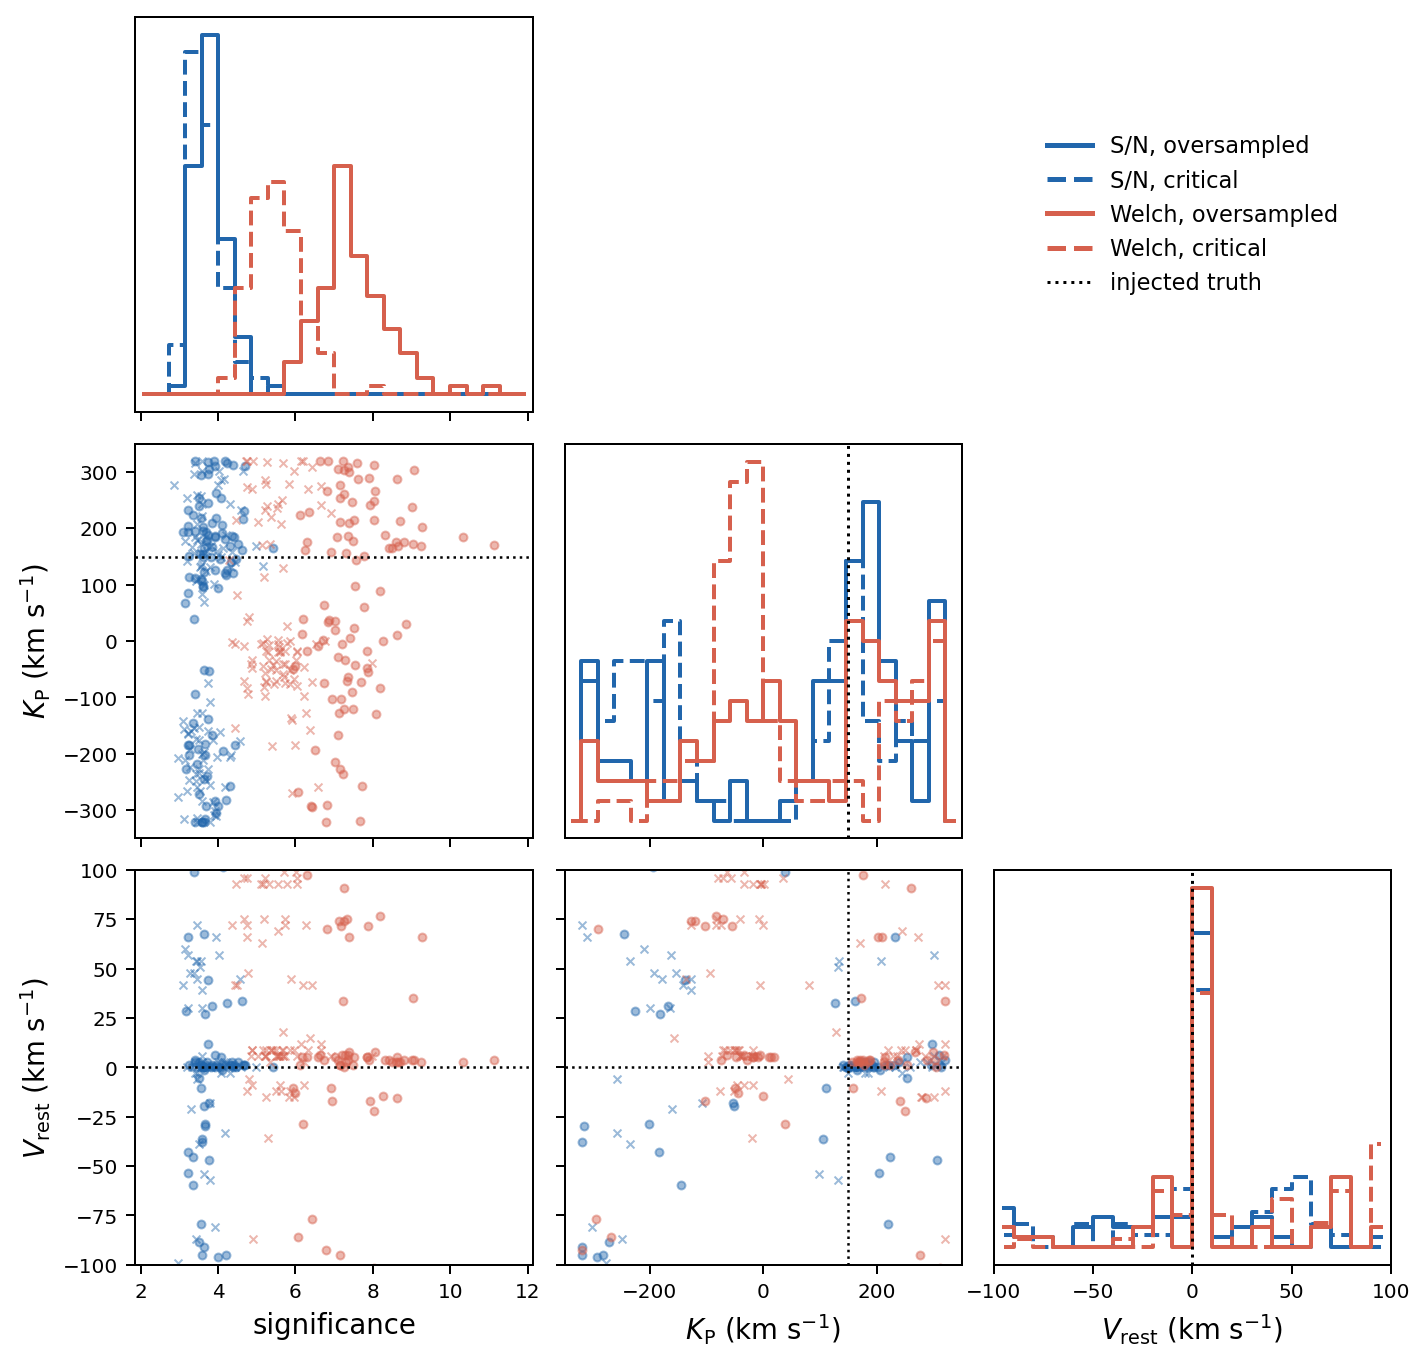
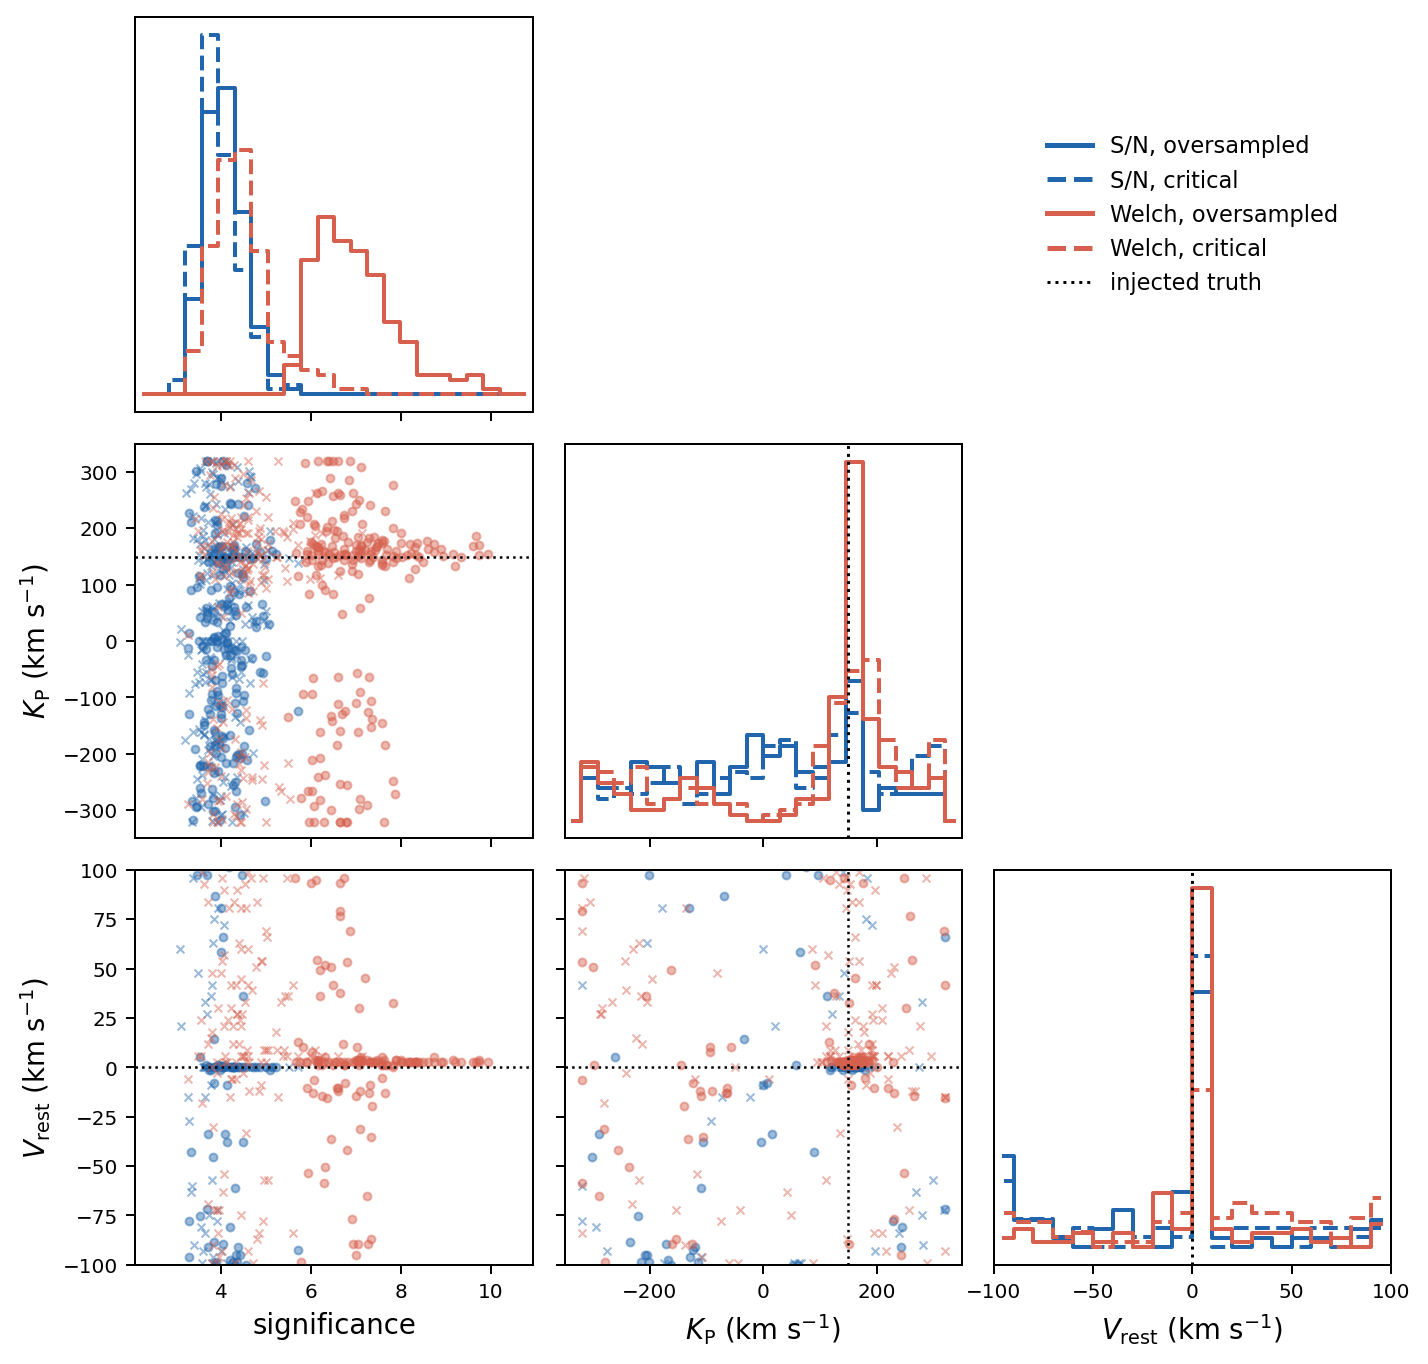
Tutorial 8: 200-realisation significance study and refreshed caption; add verified citation hyperlinks across docs

diff --git a/docs/tutorial.md b/docs/tutorial.md
@@ -164,9 +164,9 @@ The map is constructed by co-adding the cross-correlation function (CCF) over al
 
 The characteristic elongated shape (a vertical streak rather than a point) reflects a partial degeneracy between K<sub>P</sub> and v<sub>rest</sub> over a single transit: a slightly wrong K<sub>P</sub> shifts the peak in v<sub>rest</sub> rather than completely destroying it. This degeneracy can in principle be lifted by combining multiple transits at different orbital phases.
 
-A non-zero v<sub>rest</sub> at the peak indicates that the absorbing gas has a net velocity relative to the planet's Keplerian rest frame. In tidally locked hot Jupiters, a **blueshift** (negative v<sub>rest</sub>) is commonly observed and attributed to day-to-nightside winds: high-altitude gas flows from the hot dayside towards the cooler nightside, and at the terminator this flow has a line-of-sight component pointing towards the observer on both the leading and trailing limbs. For HD 189733 b, multiple studies consistently measure a blueshift of -3.9 to -5.5 km s<sup>-1</sup> (Alonso-Floriano et al. 2019; [Sánchez-López et al. 2019](https://doi.org/10.1051/0004-6361/201936084); Blain et al. 2024).
+A non-zero v<sub>rest</sub> at the peak indicates that the absorbing gas has a net velocity relative to the planet's Keplerian rest frame. In tidally locked hot Jupiters, a **blueshift** (negative v<sub>rest</sub>) is commonly observed and attributed to day-to-nightside winds: high-altitude gas flows from the hot dayside towards the cooler nightside, and at the terminator this flow has a line-of-sight component pointing towards the observer on both the leading and trailing limbs. For HD 189733 b, multiple studies consistently measure a blueshift of -3.9 to -5.5 km s<sup>-1</sup> ([Alonso-Floriano et al. 2019](https://doi.org/10.1051/0004-6361/201834339); [Sánchez-López et al. 2019](https://doi.org/10.1051/0004-6361/201936084); Blain et al. 2024).
 
-A measured v<sub>rest</sub> offset is most commonly interpreted as a day-to-nightside wind, but it is not uniquely diagnostic. Planetary rotation, an offset dayside hotspot, or species-dependent dynamics can produce comparable shifts (Brogi et al. 2023; Smith et al. 2024), as can residual uncertainties in the velocity solution or the wavelength calibration. Such an offset should therefore always be cross-checked against independent indicators before being attributed to winds.
+A measured v<sub>rest</sub> offset is most commonly interpreted as a day-to-nightside wind, but it is not uniquely diagnostic. Planetary rotation, an offset dayside hotspot, or species-dependent dynamics can produce comparable shifts ([Brogi et al. 2023](https://doi.org/10.3847/1538-3881/acaf5c); [Smith et al. 2024](https://doi.org/10.3847/1538-3881/ad8574)), as can residual uncertainties in the velocity solution or the wavelength calibration. Such an offset should therefore always be cross-checked against independent indicators before being attributed to winds.
 :::
 
 The peak S/N and its position depend on the noise seed (`noise.noise_seed`, default `12345`); changing it draws a different noise realisation. Fully-masked orders (deep telluric bands) are skipped and reported in `<run_name>/warnings/fully_masked_orders_<run_name>.txt`.
@@ -193,7 +193,7 @@ See [docs/outputs.md](outputs.md) for a complete guide to every output file and 
 
 > **Approximate run time:** ~61 min on an Apple Mac Studio M2 Ultra (64 GB RAM), running `configs/wasp76b_andes_ubv_limbasym.json` (Blain24 pipeline, asymmetric limbs, all 62 ANDES UBV orders, one night, no retrieval). The petitRADTRANS forward model dominates: it is run for the four limb atmospheres and convolved with the per-limb wind and rotation kernels, so this case is slower than the single-atmosphere Tutorial 1. Times are approximate and machine-dependent; with `timing: true` the run writes a `timing_report_<date>.txt` with the exact per-block breakdown and total.
 
-WASP-76 b is an ultra-hot Jupiter where the extreme day-to-night temperature contrast produces strong chemical asymmetries between the morning and evening limbs. The key observational signature is a neutral iron signal that strengthens from ingress to egress and progressively blueshifts. At ingress the morning (leading) terminator is in view, where its rotation and the day-to-nightside wind partly compensate and contribute a component near zero rest-frame velocity. As the morning terminator rotates out of view, it stops contributing, because iron has condensed out of the cooler nightside. The near-zero velocity component then vanishes, leaving only the hotter evening (trailing) terminator. There, rotation and wind add towards the observer, giving the net blueshift (Ehrenreich et al. 2020). This tutorial runs the reference WASP-76 b simulation: ANDES UBV (0.35 to 0.63 µm, 62 orders, R = 100,000) with limb asymmetries enabled and a Fe-only CCF template.
+WASP-76 b is an ultra-hot Jupiter where the extreme day-to-night temperature contrast produces strong chemical asymmetries between the morning and evening limbs. The key observational signature is a neutral iron signal that strengthens from ingress to egress and progressively blueshifts. At ingress the morning (leading) terminator is in view, where its rotation and the day-to-nightside wind partly compensate and contribute a component near zero rest-frame velocity. As the morning terminator rotates out of view, it stops contributing, because iron has condensed out of the cooler nightside. The near-zero velocity component then vanishes, leaving only the hotter evening (trailing) terminator. There, rotation and wind add towards the observer, giving the net blueshift ([Ehrenreich et al. 2020](https://doi.org/10.1038/s41586-020-2107-1)). This tutorial runs the reference WASP-76 b simulation: ANDES UBV (0.35 to 0.63 µm, 62 orders, R = 100,000) with limb asymmetries enabled and a Fe-only CCF template.
 
 A ready-to-run config is provided at `configs/wasp76b_andes_ubv_limbasym.json`. The planet parameter file is at `planet_params/WASP-76b.json`. In the following we describe the key differences from Tutorial 1 and the additional steps required.
 
@@ -246,7 +246,7 @@ This requires an internet connection and the `skycalc_ipy` package (`pip install
 python -u scripts/run_exoplore.py configs/wasp76b_andes_ubv_limbasym.json --run
 ```
 
-The simulation uses 62 UBV orders and a Fe-only CCF template, prepared with the same Blain24 polynomial pipeline as Tutorial 1. Limb asymmetries are enabled with `limb_divisions: asymmetric`, appropriate for the extreme day-to-night contrast of WASP-76 b: the morning limb is modelled at T = 2800 K (isothermal) and the evening limb at T = 3500 K (isothermal), with a day-to-nightside wind of -8 km s<sup>-1</sup> at both limbs (following Ehrenreich et al. 2020; Wardenier et al. 2021; Beltz et al. 2023). Exposure time is 90 s (matching the ANDES ETC files provided). Since telluric features in the optical are broadband and weak, no pixels are expected to be fully masked by the telluric threshold.
+The simulation uses 62 UBV orders and a Fe-only CCF template, prepared with the same Blain24 polynomial pipeline as Tutorial 1. Limb asymmetries are enabled with `limb_divisions: asymmetric`, appropriate for the extreme day-to-night contrast of WASP-76 b: the morning limb is modelled at T = 2800 K (isothermal) and the evening limb at T = 3500 K (isothermal), with a day-to-nightside wind of -8 km s<sup>-1</sup> at both limbs (following Ehrenreich et al. 2020; [Wardenier et al. 2021](https://doi.org/10.1093/mnras/stab1797); [Beltz et al. 2023](https://doi.org/10.3847/1538-3881/acd24d)). Exposure time is 90 s (matching the ANDES ETC files provided). Since telluric features in the optical are broadband and weak, no pixels are expected to be fully masked by the telluric threshold.
 
 :::{figure} figures/tutorial2_ccf_erf_wasp76b.png
 :width: 80%
@@ -386,7 +386,7 @@ These weighting curves leave a direct imprint on the data. The figure below show
 :::{figure} figures/limb_asymmetry_ccf.png
 :width: 100%
 :align: center
-Time-resolved cross-correlation signal of pseudo-2D atmospheres, simulated for ANDES. <b>Top row:</b> cross-correlation maps in Earth's rest-frame velocity against orbital phase (dashed lines mark the transit contacts T<sub>1</sub>, T<sub>4</sub>). <b>Bottom row:</b> the corresponding 1D cross-correlation functions averaged over ingress (blue) and egress (red), which isolate the leading and trailing limbs respectively. <b>Left:</b> a H₂O signal from HD 189733 b with a modest day-to-nightside wind; the two limbs share nearly the same velocity and merge into a single, slightly asymmetric trail (the leading and trailing limbs enter and leave transit at slightly different times), and the ingress and egress CCFs peak close together. <b>Middle:</b> neutral iron in the ultra-hot Jupiter WASP-76 b, where a day-to-nightside wind and a time-varying limb contribution shift the CCF peak progressively bluewards from ingress to egress (Ehrenreich et al. 2020). <b>Right:</b> a hot Jupiter with a jet-like wind (≈ 7.7 km s<sup>-1</sup> towards the observer on the trailing limb and away from it on the leading limb), of the kind resolved in WASP-127 b by Nortmann et al. (2025). The velocity offset between the limbs now exceeds a resolution element, so the signal splits into two components (a morning component dominating from ingress to mid-transit and an evening component from mid-transit to egress) that cross near the centre of the transit and appear as two separate peaks in the ingress and egress CCFs. This is the observable consequence of the time-dependent weighting shown above, combined with the per-limb winds.
+Time-resolved cross-correlation signal of pseudo-2D atmospheres, simulated for ANDES. <b>Top row:</b> cross-correlation maps in Earth's rest-frame velocity against orbital phase (dashed lines mark the transit contacts T<sub>1</sub>, T<sub>4</sub>). <b>Bottom row:</b> the corresponding 1D cross-correlation functions averaged over ingress (blue) and egress (red), which isolate the leading and trailing limbs respectively. <b>Left:</b> a H₂O signal from HD 189733 b with a modest day-to-nightside wind; the two limbs share nearly the same velocity and merge into a single, slightly asymmetric trail (the leading and trailing limbs enter and leave transit at slightly different times), and the ingress and egress CCFs peak close together. <b>Middle:</b> neutral iron in the ultra-hot Jupiter WASP-76 b, where a day-to-nightside wind and a time-varying limb contribution shift the CCF peak progressively bluewards from ingress to egress (Ehrenreich et al. 2020). <b>Right:</b> a hot Jupiter with a jet-like wind (≈ 7.7 km s<sup>-1</sup> towards the observer on the trailing limb and away from it on the leading limb), of the kind resolved in WASP-127 b by [Nortmann et al. (2025)](https://doi.org/10.1051/0004-6361/202450438). The velocity offset between the limbs now exceeds a resolution element, so the signal splits into two components (a morning component dominating from ingress to mid-transit and an evening component from mid-transit to egress) that cross near the centre of the transit and appear as two separate peaks in the ingress and egress CCFs. This is the observable consequence of the time-dependent weighting shown above, combined with the per-limb winds.
 :::
 
 ### Example E: manual mass fractions (no EasyChem)
@@ -960,10 +960,10 @@ python scripts/plot_significance_study.py \
 :width: 85%
 :align: center
 
-Distributions of the recovered significance, K<sub>P</sub>, and V<sub>rest</sub> over 100 noise realisations of the same injected HD 189733 b atmosphere (ANDES, single order), for the S/N (blue) and Welch (red) metrics at the oversampled (solid) and critical (dashed) velocity steps. The S/N distributions for the two steps coincide (the metric is insensitive to the sampling), while the Welch distribution shifts to higher significance at the oversampled step (median 7.4 against 5.5). Dotted lines mark the injected truth values; the recovered K<sub>P</sub> and V<sub>rest</sub> scatter because a single order yields a modest per-order significance.
+Distributions of the recovered significance, K<sub>P</sub>, and V<sub>rest</sub> over 200 noise realisations of the same injected HD 189733 b atmosphere (ANDES, single order), for the S/N (blue) and Welch (red) metrics at the oversampled (solid) and critical (dashed) velocity steps. The S/N distributions for the two steps coincide (the metric is insensitive to the sampling), while the Welch distribution shifts to higher significance at the oversampled step (median 6.8 against 4.4). Dotted lines mark the injected truth values; the recovered K<sub>P</sub> and V<sub>rest</sub> cluster at the injected values in the realisations where the planetary peak dominates the map, on top of a broad pedestal from realisations in which a noise spike elsewhere wins instead, as expected at this modest per-order significance.
 ```
 
-A single ANDES order carries enough signal for a per-order detection of a strong absorber such as H₂O even with realistic noise (here a median S/N of about 3.7), although at this modest per-order significance the recovered peak position varies appreciably from one noise realisation to the next, as the scatter in the figure shows. Co-adding orders (or nights) raises the significance and tightens the recovered K<sub>P</sub> and V<sub>rest</sub>.
+A single ANDES order yields only a marginal per-order signal from a strong absorber such as H₂O under realistic noise (here a median S/N of about 4), and at this modest significance the recovered peak position varies appreciably from one noise realisation to the next, as the scatter in the figure shows. The distribution is broad: in the most favourable realisations (a few percent of the sample) the single-order S/N exceeds 5, reaching about 5.7 at best, while in less favourable ones it drops well below the median, so no single realisation should be read as characteristic. This single-order case is deliberately conservative: it isolates the sampling effect with the smallest usable signal and is not representative of a real analysis. Co-adding the full set of ANDES orders (and, where available, multiple nights) raises the combined significance well above this floor and tightens the recovered K<sub>P</sub> and V<sub>rest</sub> correspondingly. The purpose of this study is not to quote a headline single-order significance but to show how the two metrics respond to the velocity sampling, and why a Welch value must always be read together with the step at which it was computed.
 
 ### p-p plots: validating retrieval uncertainties
 

diff --git a/docs/config_reference.md b/docs/config_reference.md
@@ -381,7 +381,7 @@ Four pipeline recipes are available. They fall into two groups depending on whet
 | `snr_mask_threshold` | float > 0 | SNR threshold below which columns (wavelength channels) are masked before SYSREM. Pixels with SNR < threshold are excluded. Typical: 10. |
 | `prepare_template` | `true`, `false` | If `true`, apply the same filtering to the CCF template as was applied to the data, so that the template correctly represents the distorted planetary signal seen in the residuals. **Always set `true` for rigorous CCF computation and retrievals.** How the template is filtered depends on the pipeline, see the note below. |
 | `optimize_sysrem_order_by_order` | `true`, `false` | If `true`, choose the optimal number of SYSREM iterations independently for each spectral order based on `optimize_criterion`. Slower but can improve sensitivity. |
-| `optimize_criterion` | `"DeltaSigma"`, `"Maximum"`, `"Max_Diff"` | Criterion for selecting the optimal SYSREM iteration count per order when `optimize_sysrem_order_by_order: true`. `"DeltaSigma"` (**default, recommended**): stop when the fractional improvement in CCF S/N falls below `sysrem_delta_sigma_threshold`, model-independent and avoids over-subtraction (Parker et al. 2025). `"Maximum"`: choose the iteration that maximises the CCF S/N. `"Max_Diff"`: choose the iteration that maximises the S/N difference between consecutive iterations. |
+| `optimize_criterion` | `"DeltaSigma"`, `"Maximum"`, `"Max_Diff"` | Criterion for selecting the optimal SYSREM iteration count per order when `optimize_sysrem_order_by_order: true`. `"DeltaSigma"` (**default, recommended**): stop when the fractional improvement in CCF S/N falls below `sysrem_delta_sigma_threshold`, model-independent and avoids over-subtraction ([Parker et al. 2025](https://doi.org/10.1093/mnras/staf469)). `"Maximum"`: choose the iteration that maximises the CCF S/N. `"Max_Diff"`: choose the iteration that maximises the S/N difference between consecutive iterations. |
 | `sysrem_delta_sigma_threshold` | float (default 0.01) | Fractional σ-drop threshold for the `"DeltaSigma"` halting criterion. SYSREM stops when (S/N[k] - S/N[k-1]) / S/N[k-1] < threshold. Only used when `optimize_criterion: "DeltaSigma"`. |
 | `kp_vrest_injection` | `[Kp, Vrest]` km/s | Location in Kp-Vsys space at which to inject an additional test signal for cross-injection tests. `[0.0, 0.0]` = no injection. |
 | `inject_scale_factor` | float | Scale factor for the additional cross-injection signal. |
@@ -662,7 +662,7 @@ Use `"name": "CARMENES_NIR"`. Coverage 0.96 to 1.71 µm, 28 orders, 4080 pixels/
 
 The wavelength grid is bundled with EXoPLORE (`src/exoplore/instruments/data/wave_CARMENES_NIR.fits`, shape 28 × 4080 µm) and is found automatically, you do not need to copy it.
 
-**Recommended order selection:** the bundled config `configs/hd189733b_carmenes_transit.json` excludes orders 9, 10, 18, 19, and 20, following the selection of Alonso-Floriano et al. (2019) for this specific dataset. Orders 18 to 20 lie in the ~1.9 µm water band and are consistently opaque from Calar Alto under typical conditions. Orders 9 and 10 (~1.4 µm water band) are more variable: under low-PWV conditions they can retain usable signal, and users working on real observations should inspect their own telluric transmission before discarding them. In general, the optimal order selection is target- and night-dependent and should be determined from the actual data. The 23-order list used here is a conservative starting point.
+**Recommended order selection:** the bundled config `configs/hd189733b_carmenes_transit.json` excludes orders 9, 10, 18, 19, and 20, following the selection of [Alonso-Floriano et al. (2019)](https://doi.org/10.1051/0004-6361/201834339) for this specific dataset. Orders 18 to 20 lie in the ~1.9 µm water band and are consistently opaque from Calar Alto under typical conditions. Orders 9 and 10 (~1.4 µm water band) are more variable: under low-PWV conditions they can retain usable signal, and users working on real observations should inspect their own telluric transmission before discarding them. In general, the optimal order selection is target- and night-dependent and should be determined from the actual data. The 23-order list used here is a conservative starting point.
 ```json
 "order_indices": [0,1,2,3,4,5,6,7,8,11,12,13,14,15,16,17,21,22,23,24,25,26,27]
 ```

diff --git a/docs/input_files.md b/docs/input_files.md
@@ -93,7 +93,7 @@ Here `K` is the **absolute spectral order number** from the instrument's `order_
 
 > **Note on `n_spectra`:** regardless of `use_real_data`, the number of exposures per night is always determined by `julian_date_{b}.fits`, specifically, `n_spectra_b = len(julian_date_b)`. The spectral and uncertainty arrays must have a matching first dimension; the simulator does not infer `n_spectra` from them. For `different_nights: false` with `use_real_data: true`, the night suffix is omitted: `observations_order_{K}.fits` and `observations_berv.fits`.
 
-**For the HD189733b CARMENES reference night** (Alonso-Floriano et al. 2019, A&A 621, A74, night of 2017-09-07):
+**For the HD189733b CARMENES reference night** ([Alonso-Floriano et al. 2019](https://doi.org/10.1051/0004-6361/201834339), A&A 621, A74, night of 2017-09-07):
 The sig/snr/JD/airmass files from that published observation are in `inputs/CARMENES_NIR/HD189733b/reference_night/`. These are the files used in the CARMENES validation run. They should be cited as Alonso-Floriano et al. (2019) if used in published work.
 
 ---

diff --git a/docs/concepts.md b/docs/concepts.md
@@ -268,7 +268,7 @@ pipeline should be verified on the data it is applied to, not applied blindly.
 > signal injected at a velocity **away** from the planet, so the choice never
 > sees the real signal; and a model-independent criterion based on the change in
 > the residual standard deviation between successive SYSREM iterations
-> (`delta_sigma`), following Parker et al. (2025, MNRAS, 538, 3263), which
+> (`delta_sigma`), following [Parker et al. (2025, MNRAS, 538, 3263)](https://doi.org/10.1093/mnras/staf469), which
 > avoids assuming a model altogether. The two latter approaches both avoid tuning the
 > analysis on the real signal.
 

diff --git a/docs/outputs.md b/docs/outputs.md
@@ -265,7 +265,7 @@ print(f"Peak S/N = {peak_snr:.1f} at Kp = {peak_kp:.0f} km/s, Vsys = {peak_vsys:
 ## How to read a 1D CCF at the best Kp
 
 ```python
-kp_best = 152.5   # km/s, literature Kp for HD 189733 b (Triaud et al. 2009)
+kp_best = 152.5   # km/s, Kp for HD 189733 b
 kp_idx  = np.argmin(np.abs(kp_range - kp_best))
 
 ccf_1d = snr_map[kp_idx, :]
